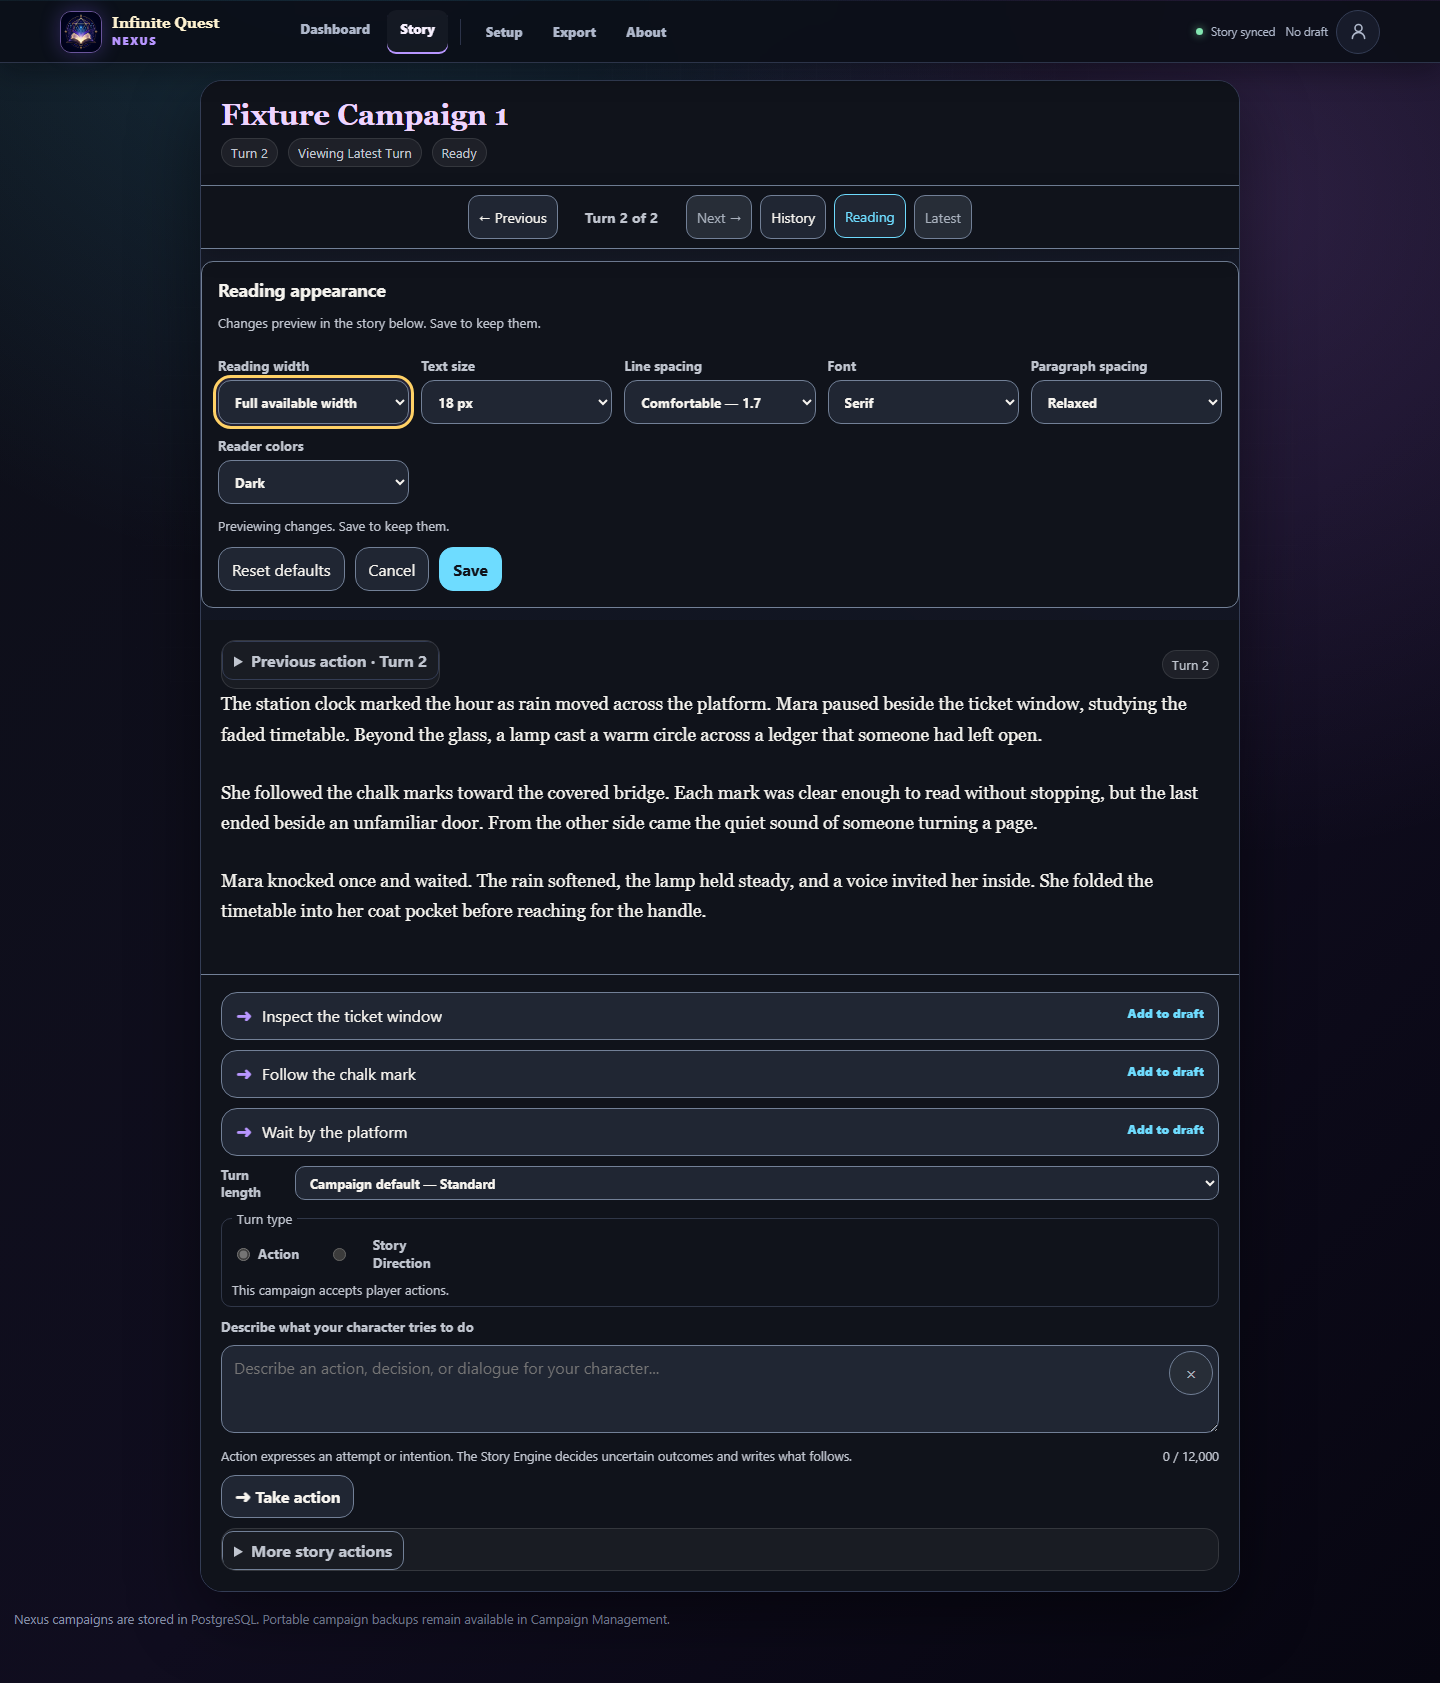
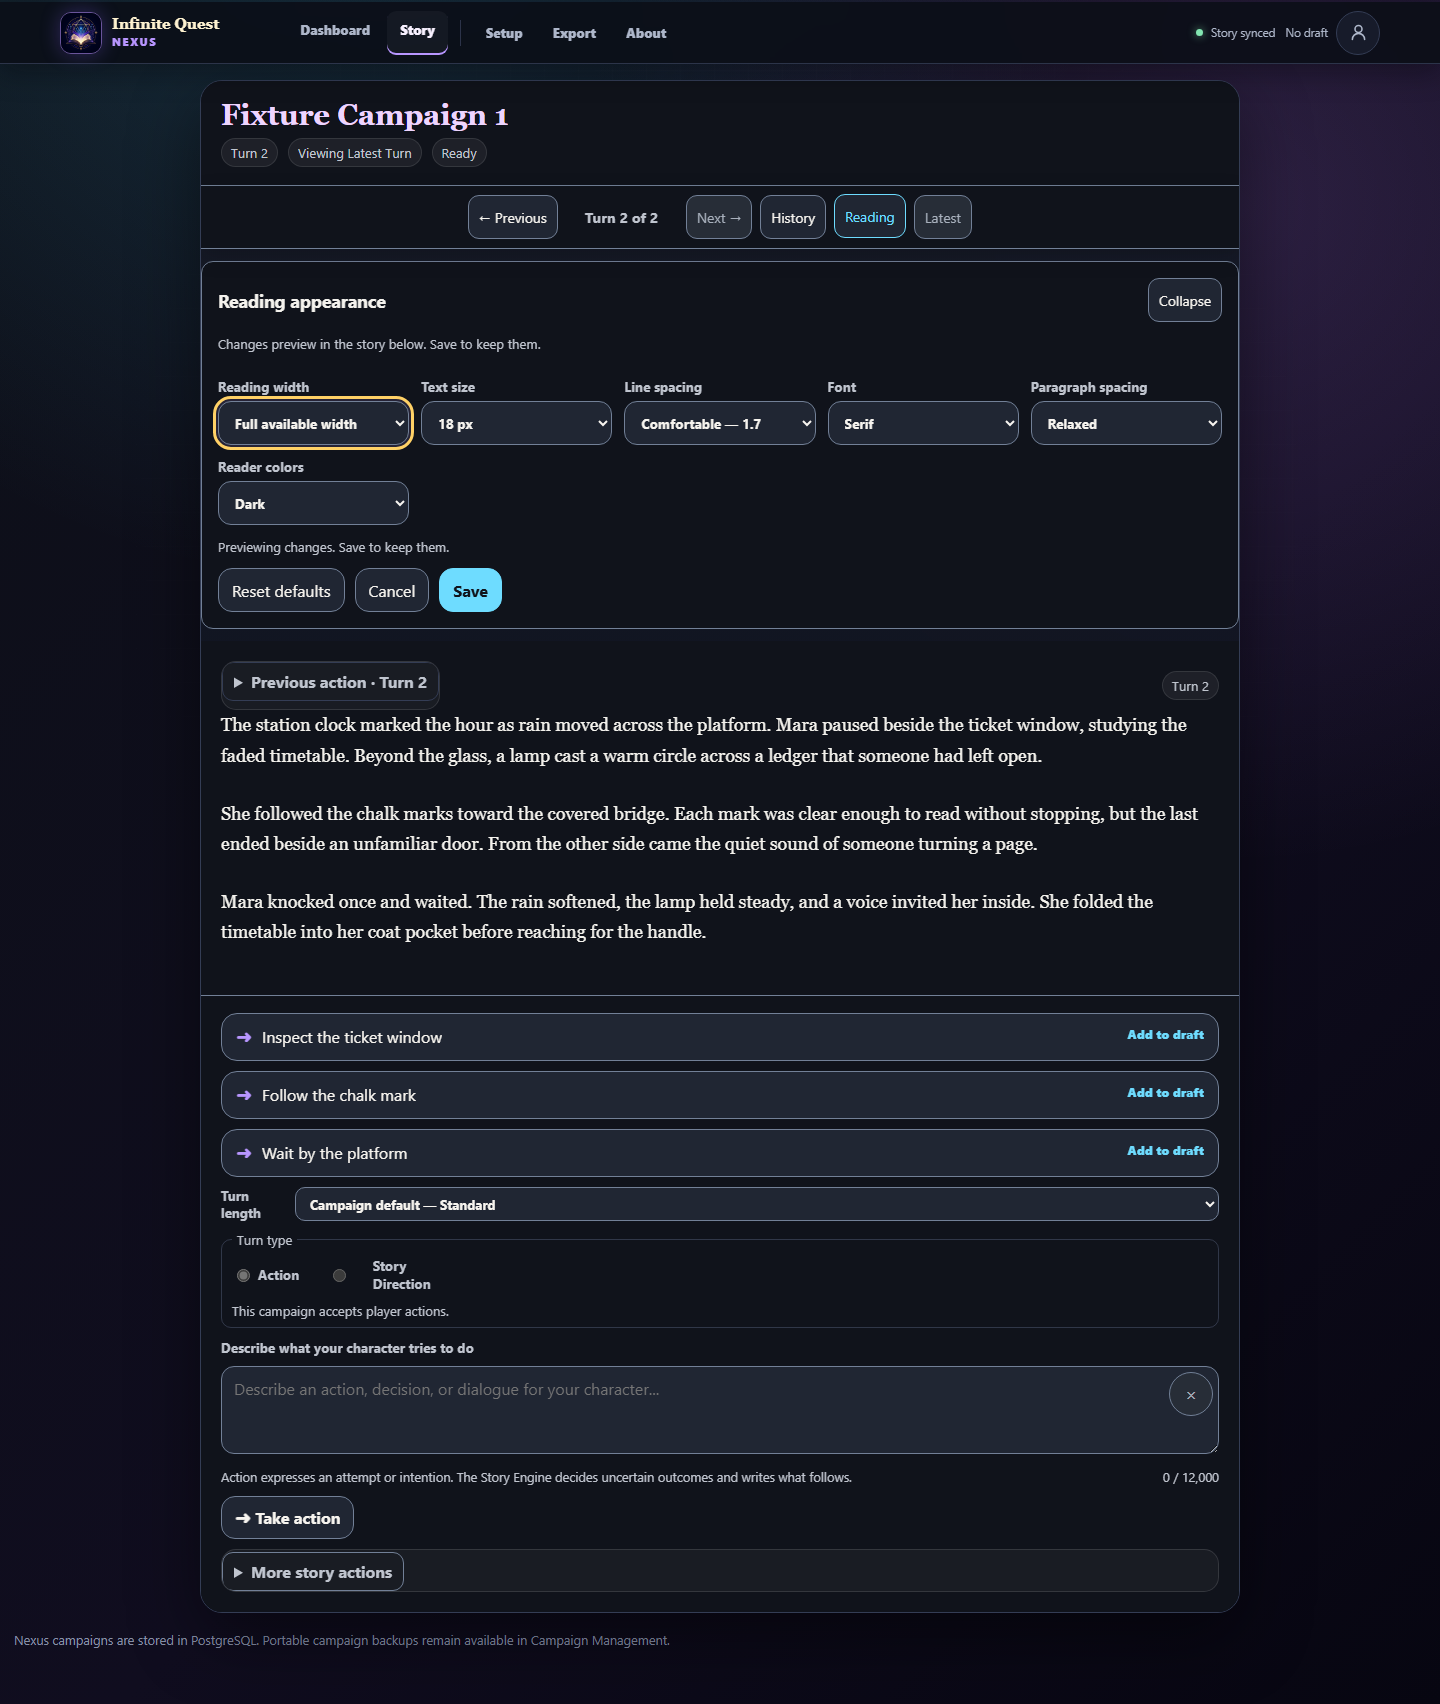
Collapse Story reading settings into a compact bar

diff --git a/apps/web/public/story.html b/apps/web/public/story.html
@@ -91,47 +91,52 @@
           <button id="btnReaderJumpLatest" class="small ghost" type="button" aria-label="Jump to latest" title="Jump to the latest turn">Latest</button>
         </nav>
         <section id="readerAppearancePanel" class="reader-appearance-panel" aria-labelledby="readerAppearanceTitle" hidden>
-          <h2 id="readerAppearanceTitle">Reading appearance</h2>
-          <p class="mini">Changes preview in the story below. Save to keep them.</p>
-          <div class="reader-appearance-fields">
-            <label><span>Reading width</span>
-              <select data-reader-width>
-                <option value="60">Narrow — 60 characters</option>
-                <option value="72">Comfortable — 72 characters</option>
-                <option value="84">Wide — 84 characters</option>
-                <option value="full">Full available width</option>
-              </select>
-            </label>
-            <label><span>Text size</span>
-              <select data-reader-font-size>
-                <option value="16">16 px</option>
-                <option value="18">18 px</option>
-                <option value="20">20 px</option>
-                <option value="22">22 px</option>
-              </select>
-            </label>
-            <label><span>Line spacing</span>
-              <select data-reader-line-height>
-                <option value="1.5">Compact — 1.5</option>
-                <option value="1.7">Comfortable — 1.7</option>
-                <option value="1.9">Relaxed — 1.9</option>
-              </select>
-            </label>
-            <label><span>Font</span><select data-reader-font-family><option value="sans">Sans serif</option><option value="serif">Serif</option></select></label>
-            <label><span>Paragraph spacing</span><select data-reader-paragraph-spacing><option value="0.5">Compact</option><option value="1">Comfortable</option><option value="1.5">Relaxed</option></select></label>
-            <label><span>Reader colors</span>
-              <select data-reader-theme>
-                <option value="dark">Dark</option>
-                <option value="light">Light</option>
-                <option value="sepia">Sepia</option>
-              </select>
-            </label>
+          <div class="reader-appearance-bar">
+            <h2 id="readerAppearanceTitle">Reading appearance</h2>
+            <button id="btnToggleReaderAppearance" class="small ghost" type="button" aria-expanded="true" aria-controls="readerAppearanceBody" aria-label="Collapse reading appearance">Collapse</button>
           </div>
-          <p id="readerAppearanceStatus" class="mini" role="status" aria-live="polite"></p>
-          <div class="row wrap">
-            <button id="btnResetReaderAppearance" type="button">Reset defaults</button>
-            <button id="btnCancelReaderAppearance" type="button">Cancel</button>
-            <button id="btnSaveReaderAppearance" class="primary" type="button">Save</button>
+          <div id="readerAppearanceBody">
+            <p class="mini">Changes preview in the story below. Save to keep them.</p>
+            <div class="reader-appearance-fields">
+              <label><span>Reading width</span>
+                <select data-reader-width>
+                  <option value="60">Narrow — 60 characters</option>
+                  <option value="72">Comfortable — 72 characters</option>
+                  <option value="84">Wide — 84 characters</option>
+                  <option value="full">Full available width</option>
+                </select>
+              </label>
+              <label><span>Text size</span>
+                <select data-reader-font-size>
+                  <option value="16">16 px</option>
+                  <option value="18">18 px</option>
+                  <option value="20">20 px</option>
+                  <option value="22">22 px</option>
+                </select>
+              </label>
+              <label><span>Line spacing</span>
+                <select data-reader-line-height>
+                  <option value="1.5">Compact — 1.5</option>
+                  <option value="1.7">Comfortable — 1.7</option>
+                  <option value="1.9">Relaxed — 1.9</option>
+                </select>
+              </label>
+              <label><span>Font</span><select data-reader-font-family><option value="sans">Sans serif</option><option value="serif">Serif</option></select></label>
+              <label><span>Paragraph spacing</span><select data-reader-paragraph-spacing><option value="0.5">Compact</option><option value="1">Comfortable</option><option value="1.5">Relaxed</option></select></label>
+              <label><span>Reader colors</span>
+                <select data-reader-theme>
+                  <option value="dark">Dark</option>
+                  <option value="light">Light</option>
+                  <option value="sepia">Sepia</option>
+                </select>
+              </label>
+            </div>
+            <p id="readerAppearanceStatus" class="mini" role="status" aria-live="polite"></p>
+            <div class="row wrap">
+              <button id="btnResetReaderAppearance" type="button">Reset defaults</button>
+              <button id="btnCancelReaderAppearance" type="button">Cancel</button>
+              <button id="btnSaveReaderAppearance" class="primary" type="button">Save</button>
+            </div>
           </div>
         </section>
         <div id="readerResumePrompt" class="reader-resume-prompt hidden" role="group" aria-label="Saved reading position" hidden>

diff --git a/tests/e2e/legacy-ui-reading-panel.e2e.test.ts b/tests/e2e/legacy-ui-reading-panel.e2e.test.ts
@@ -200,3 +200,42 @@ test("reading save failure retains preview and allows retry without changing sto
   await expect(panel).toBeHidden();
   expect(fixture.settings()).toMatchObject({ autoSubmitTurnChoices: false, continuousReading: false, defaultTurnControlStyle: "action_only" });
 });
+
+for (const illustrated of [false, true]) {
+  test(`${illustrated ? "illustrated" : "text-only"} reading appearance collapses without losing its preview`, async ({ page }) => {
+    await page.setViewportSize({ width: 1440, height: 1000 });
+    await loadReader(page, illustrated);
+    let writes = 0;
+    page.on("request", request => { if (request.method() === "PATCH") writes += 1; });
+    await page.locator("#btnReaderAppearance").click();
+    const panel = page.locator("#readerAppearancePanel");
+    const toggle = panel.getByRole("button", { name: "Collapse reading appearance" });
+    await panel.locator("[data-reader-font-family]").selectOption("serif");
+    await panel.locator("[data-reader-paragraph-spacing]").selectOption("1.5");
+    await toggle.click();
+    const expand = panel.getByRole("button", { name: "Expand reading appearance" });
+    await expect(expand).toHaveAttribute("aria-expanded", "false");
+    await expect(expand).toBeFocused();
+    await expect(panel.locator("[data-reader-font-family]")).toBeHidden();
+    for (const width of [1440, 390]) {
+      await page.setViewportSize({ width, height: width === 390 ? 844 : 1000 });
+      expect((await panel.boundingBox())!.height).toBeLessThanOrEqual(66);
+      expect(await page.evaluate(() => document.documentElement.scrollWidth <= innerWidth)).toBe(true);
+      await expect(page.locator(".narration").first()).toHaveCSS("font-family", /Georgia/);
+      await expect(page.locator(".narration p").first()).toHaveCSS("margin-bottom", "27px");
+      await page.evaluate(() => window.scrollTo(0, 0));
+      await capture(page, `${illustrated ? "illustrated" : "text-only"}-reading-collapsed-${width}`);
+    }
+    expect(writes).toBe(0);
+    await expand.focus();
+    await page.keyboard.press("Enter");
+    await expect(toggle).toHaveAttribute("aria-expanded", "true");
+    await expect(panel.locator("[data-reader-font-family]")).toHaveValue("serif");
+    await expect(panel.locator("[data-reader-paragraph-spacing]")).toHaveValue("1.5");
+    await toggle.click();
+    await page.keyboard.press("Escape");
+    await expect(panel).toBeHidden();
+    await expect(page.locator("#btnReaderAppearance")).toBeFocused();
+    await expect(page.locator(".narration p").first()).toHaveCSS("margin-bottom", "18px");
+  });
+}

diff --git a/apps/web/src/story.js b/apps/web/src/story.js
@@ -4940,6 +4940,15 @@ function closeReaderAppearance({ cancel = true, focus = true } = {}) {
   if (focus) $("btnReaderAppearance")?.focus({ preventScroll: true });
 }
 
+function setReaderAppearanceCollapsed(collapsed) {
+  $("readerAppearanceBody").hidden = collapsed;
+  $("readerAppearancePanel").classList.toggle("is-collapsed", collapsed);
+  const toggle = $("btnToggleReaderAppearance");
+  toggle.setAttribute("aria-expanded", String(!collapsed));
+  toggle.setAttribute("aria-label", `${collapsed ? "Expand" : "Collapse"} reading appearance`);
+  toggle.textContent = collapsed ? "Expand" : "Collapse";
+}
+
 function openReaderAppearance() {
   const panel = $("readerAppearancePanel");
   if (!panel || readerAppearanceSaving) return;
@@ -4947,6 +4956,7 @@ function openReaderAppearance() {
   setReaderPreferenceControls(normalizeReaderPreferences(state.user?.settings?.readerPreferences), panel);
   $("readerAppearanceStatus").textContent = "";
   panel.style.setProperty("--reader-panel-top", `${readerStickyInset()}px`);
+  setReaderAppearanceCollapsed(false);
   panel.hidden = false;
   $("btnReaderAppearance")?.setAttribute("aria-expanded", "true");
   panel.querySelector("select")?.focus({ preventScroll: true });
@@ -6405,6 +6415,9 @@ document.addEventListener("DOMContentLoaded", () => {
     });
   }
   $("btnReaderAppearance")?.addEventListener("click", openReaderAppearance);
+  $("btnToggleReaderAppearance")?.addEventListener("click", () => {
+    if (!readerAppearanceSaving) setReaderAppearanceCollapsed(!$("readerAppearanceBody").hidden);
+  });
   $("btnCancelReaderAppearance")?.addEventListener("click", () => closeReaderAppearance());
   $("btnSaveReaderAppearance")?.addEventListener("click", () => { void saveReaderAppearance(); });
   $("btnResetReaderAppearance")?.addEventListener("click", () => {

diff --git a/tests/unit/story-player-ui.test.ts b/tests/unit/story-player-ui.test.ts
@@ -4252,6 +4252,12 @@ describe("toolbar reading appearance", () => {
       expect(reader.style.getPropertyValue("--reader-prose-width")).toBe("100%");
       expect(reader.style.getPropertyValue("--reader-font-family")).toContain("Georgia");
       expect(reader.style.getPropertyValue("--reader-paragraph-spacing")).toBe("1.5em");
+      const collapse = document.getElementById("btnToggleReaderAppearance")!;
+      collapse.dispatchEvent(new window.Event("click"));
+      expect(document.getElementById("readerAppearanceBody")!.hidden).toBe(true);
+      expect(collapse.getAttribute("aria-expanded")).toBe("false");
+      expect(reader.style.getPropertyValue("--reader-paragraph-spacing")).toBe("1.5em");
+      expect(updateProfile).not.toHaveBeenCalled();
       document.getElementById("btnCancelReaderAppearance")!.dispatchEvent(new window.Event("click"));
       expect(panel.hidden).toBe(true);
       expect(reader.style.getPropertyValue("--reader-prose-width")).toBe("72ch");

diff --git a/apps/web/public/story.css b/apps/web/public/story.css
@@ -904,3 +904,24 @@ dialog.getting-started-dialog { width: min(680px, calc(100vw - 28px)); }
   color: var(--reader-disabled-text);
   background: var(--reader-disabled-surface);
 }
+
+.reader-appearance-bar {
+  display: flex;
+  align-items: center;
+  justify-content: space-between;
+  gap: 12px;
+}
+
+.reader-appearance-bar button {
+  flex-shrink: 0;
+}
+
+.reader-appearance-panel.is-collapsed {
+  align-self: start;
+  padding: 8px 12px;
+  overflow: visible;
+}
+
+#readerAppearanceBody[hidden] {
+  display: none;
+}
